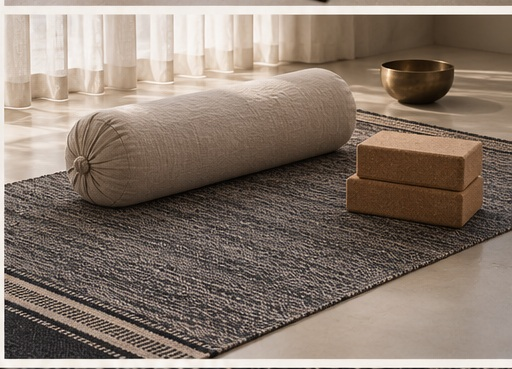
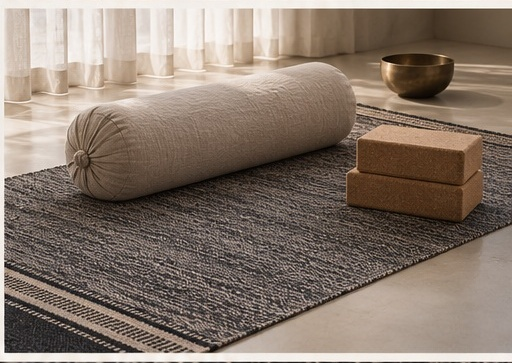
Add files via upload

diff --git a/index.html b/index.html
@@ -28,19 +28,9 @@
 <main id="top">
   <section class="hero">
     <img src="assets/hero.png" alt="VEDA SERA — curating beautiful minds">
-    <div class="hero-overlay"></div>
-    <div class="hero-brand">
-      <img src="assets/logo.png" alt="VEDA SERA">
-      <p>curating beautiful minds</p>
-    </div>
   </section>
 
   <section class="statement" id="story">
-    <div class="index-row">
-      <div><span>01</span><b>MOVEMENT</b></div>
-      <div><span>02</span><b>REST</b></div>
-      <div><span>03</span><b>RITUAL</b></div>
-    </div>
     <h1>Objects for movement,<br><em>rest,</em><br>and the rituals in between.</h1>
   </section>
 
@@ -53,16 +43,6 @@
       <p class="meta">Handwoven in India<br>100% Cotton</p>
       <p class="body">A tactile interpretation of an everyday object, shaped by traditional weaving and a quieter approach to modern living.</p>
       <a class="cta" href="https://smartstore.naver.com/vedasera" target="_blank" rel="noopener noreferrer">SHOP THE COLLECTION →</a>
-    </div>
-  </section>
-
-  <section class="split reverse" id="philosophy">
-    <div class="media"><img src="assets/philosophy.jpg" alt="VEDA SERA philosophy"></div>
-    <div class="copy">
-      <p class="eyebrow">PHILOSOPHY</p>
-      <h2>curating<br>beautiful minds</h2>
-      <div class="rule"></div>
-      <p class="body">We believe the objects around us quietly shape the way we live. Created to bring intention and beauty into everyday life.</p>
     </div>
   </section>
 
@@ -97,6 +77,18 @@
       <h2>Grounded in<br>the everyday.</h2>
       <div class="rule"></div>
       <p class="body">Made for movement, rest, and the spaces in between.</p>
+    </div>
+  </section>
+
+
+
+  <section class="split reverse" id="philosophy">
+    <div class="media"><img src="assets/philosophy.jpg" alt="VEDA SERA philosophy"></div>
+    <div class="copy">
+      <p class="eyebrow">PHILOSOPHY</p>
+      <h2>curating<br>beautiful minds</h2>
+      <div class="rule"></div>
+      <p class="body">We believe the objects around us quietly shape the way we live. Created to bring intention and beauty into everyday life.</p>
     </div>
   </section>
 

diff --git a/style.css b/style.css
@@ -112,3 +112,46 @@ footer{padding:6vw 5vw 3vw;background:var(--paper);border-top:1px solid var(--li
 .hero .hero-logo{
   display:none !important;
 }
+
+
+/* v7.3 fixes */
+
+/* Approved hero artwork already contains the VEDA SERA lockup.
+   Never place a second HTML logo/copy layer over it. */
+.hero .hero-brand,
+.hero .hero-overlay{
+  display:none !important;
+}
+
+/* Declaration starts directly with the headline. */
+.statement{
+  padding-top:8vw;
+}
+.statement > h1{
+  margin-top:0;
+}
+
+/* Prevent any seam/line around split media. */
+.media{
+  border:0 !important;
+  outline:0 !important;
+  line-height:0;
+}
+.media img{
+  display:block;
+  border:0 !important;
+  outline:0 !important;
+}
+
+/* Final artwork is a single fused image with no HTML overlay. */
+.final.final-fused{
+  display:block;
+  height:auto !important;
+  line-height:0;
+}
+.final.final-fused > img{
+  display:block;
+  width:100%;
+  height:auto !important;
+  object-fit:contain !important;
+}

diff --git a/README.md b/README.md
@@ -1,20 +1,22 @@
-# VEDA SERA v7.2 — Final Hero + CTA Patch
+# VEDA SERA v7.3 — Requested Fixes
 
-This package keeps the existing website flow and styling and changes only the approved items:
+This patch keeps the existing website flow and imagery, with these requested corrections:
 
-1. Hero restored to the approved bright VEDA SERA room image (`assets/hero.png`).
-2. Existing official high-resolution VEDA SERA logo asset retained for site UI/header usage.
-3. Final CTA uses the approved woven close-up artwork with:
+1. Hero: removed the duplicate HTML VEDA SERA logo/copy overlay.
+   The approved hero image is shown once, as designed.
+2. Removed the small MOVEMENT / REST / RITUAL labels above the statement.
+3. Removed the thin white strip at the top of the Everyday Ritual image.
+4. Final CTA uses the approved image containing only:
    - Made to live with.
    - SHOP THE COLLECTION →
-4. The final CTA remains clickable to the VEDA SERA Naver Smart Store.
-5. Duplicate HTML overlays on the final CTA are removed.
+   No incorrect VEDA SERA logo remains in this image.
+5. Philosophy section moved to the end of the editorial flow, immediately before the final CTA.
 
-## Upload
-Upload/replace:
+## GitHub upload
+Replace:
 - index.html
 - style.css
 - script.js
 - assets/
 
-Do NOT delete or replace your existing GitHub `CNAME` file.
+Keep the existing CNAME file unchanged.
